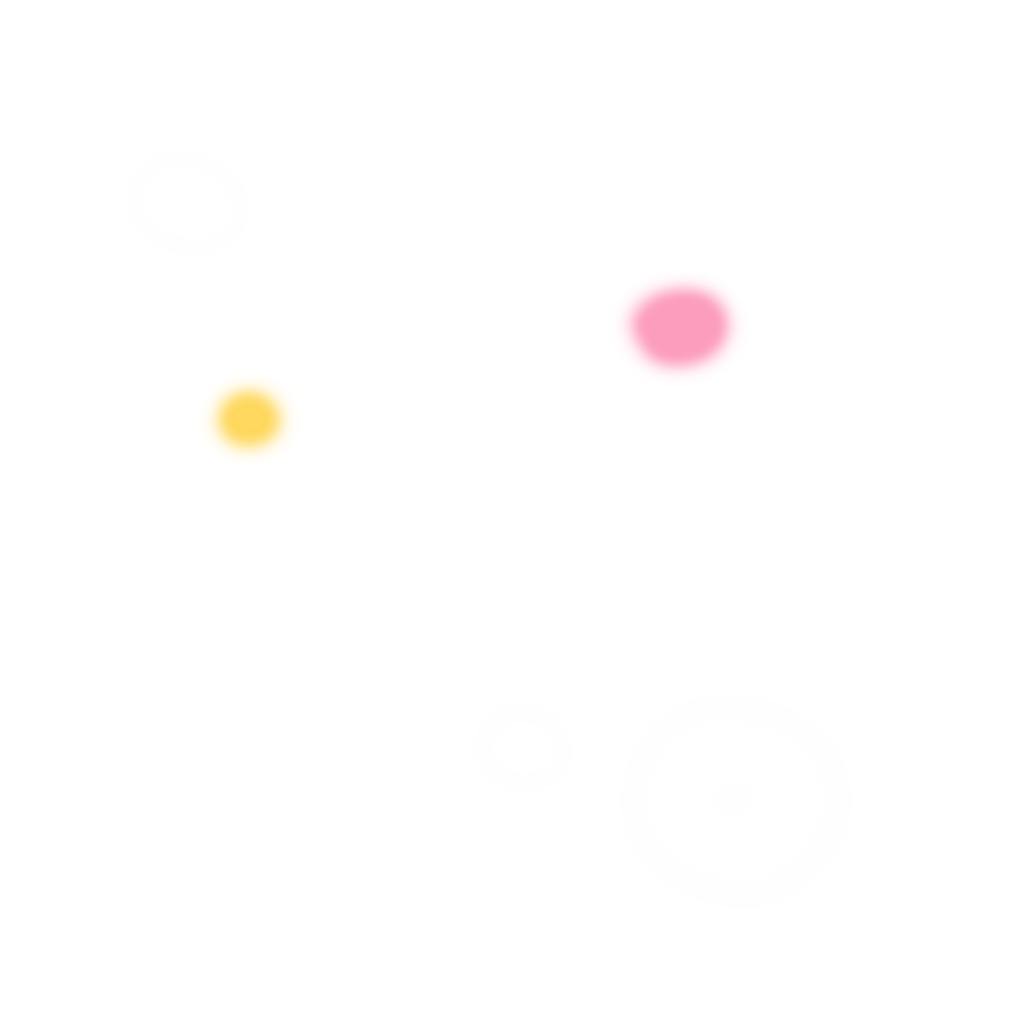
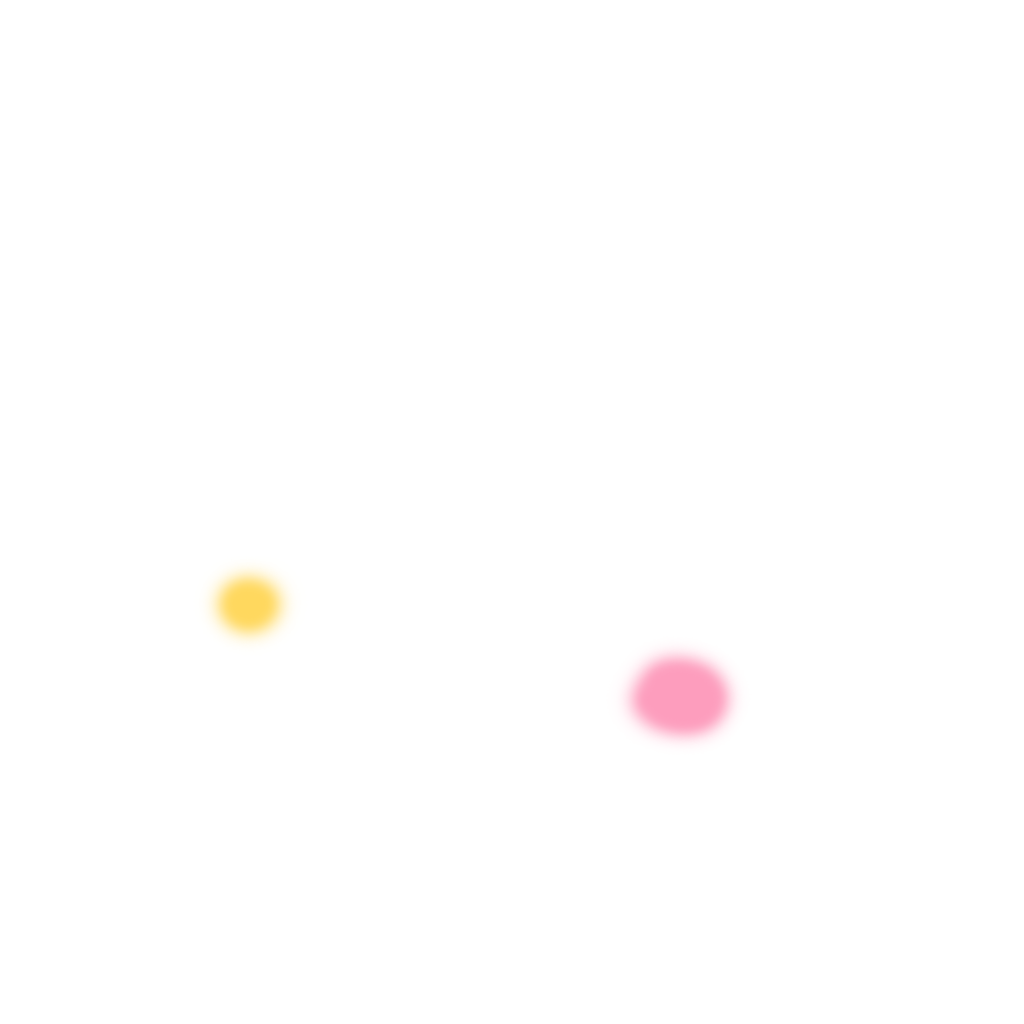
Camera 이동 회전
TODO : 텍스쳐 투명 매핑

diff --git a/OpenGLProject/OpenGLProject/OpenGLProjectView.cpp b/OpenGLProject/OpenGLProject/OpenGLProjectView.cpp
@@ -37,7 +37,6 @@ BEGIN_MESSAGE_MAP(COpenGLProjectView, CView)
 	ON_COMMAND(ID_LIGHT_SPOTLIGHT, &COpenGLProjectView::OnLightSpotlight)
 	ON_WM_RBUTTONDOWN()
 	ON_WM_KEYDOWN()
-	ON_WM_KEYUP()
 END_MESSAGE_MAP()
 
 bool COpenGLProjectView::SetDevicePixelFormat(HDC hdc) {
@@ -189,7 +188,6 @@ int COpenGLProjectView::OnCreate(LPCREATESTRUCT lpCreateStruct)
 	}
 
 	initGL();
-	deltaTime = clock();
 
 	return 0;
 }
@@ -210,6 +208,8 @@ void COpenGLProjectView::OnDestroy()
 void COpenGLProjectView::initGL()
 {
 	TRACE0("initGL 시작\n");
+	deltaTime = clock();
+	Controller::Initialize();
 
 	// GLEW를 사용하기 전에 먼저 초기화합니다
 	GLenum err = glewInit();
@@ -262,6 +262,8 @@ void COpenGLProjectView::ReSizeGLScene(GLsizei width, GLsizei height)
 void COpenGLProjectView::DrawGLScene(void)
 {
 	deltaTime = clock() - deltaTime;
+	deltaTime = clock();
+	Controller::Clock();
 
 	// claer screen and depth buffer
 	glClear(GL_COLOR_BUFFER_BIT | GL_DEPTH_BUFFER_BIT);
@@ -330,26 +332,14 @@ void COpenGLProjectView::OnLButtonUp(UINT nFlags, CPoint point)
 	CView::OnLButtonUp(nFlags, point);
 }
 
-void COpenGLProjectView::OnRButtonDown(UINT nFlags, CPoint point)
-{
-	Controller::setRClick(TRUE);
-	Controller::setpreClickPoint(point);
-
-	CView::OnRButtonDown(nFlags, point);
-}
-void COpenGLProjectView::OnRButtonUp(UINT /* nFlags */, CPoint point)
-{
-	Controller::setRClick(FALSE);
-
+void COpenGLProjectView::OnRButtonDown(UINT nFlags, CPoint point) { Controller::OnRButtonDown(nFlags, point); }
+void COpenGLProjectView::OnRButtonUp(UINT nFlags, CPoint point) {
+	Controller::OnRButtonUp(nFlags, point);
 	// 우클릭 완료시 벗어나려면 주석을 지워야한다
 	// ClientToScreen(&point);
 	// OnContextMenu(this, point);
 }
-
-void COpenGLProjectView::OnMouseMove(UINT nFlags, CPoint point)
-{
-	CView::OnMouseMove(nFlags, point);
-}
+void COpenGLProjectView::OnMouseMove(UINT nFlags, CPoint point) { Controller::OnMouseMove(nFlags, point); }
 
 void COpenGLProjectView::OnTestDirectional()
 {
@@ -369,34 +359,4 @@ void COpenGLProjectView::OnLightSpotlight()
 	mEN_LTG[2] = !mEN_LTG[2];
 }
 
-// 키보드 입력을 처리합니다
-void COpenGLProjectView::OnKeyDown(UINT nChar, UINT nRepCnt, UINT nFlags)
-{
-	switch (nChar) {
-	case 'W':
-		Camera::Move(Direction::FORWARD, (double)deltaTime / CLOCKS_PER_SEC);
-		break;
-	case 'A':
-		Camera::Move(Direction::LEFT, (double)deltaTime / CLOCKS_PER_SEC);
-		break;
-	case 'S':
-		Camera::Move(Direction::BACKWARD, (double)deltaTime / CLOCKS_PER_SEC);
-		break;
-	case 'D':
-		Camera::Move(Direction::RIGHT, (double)deltaTime / CLOCKS_PER_SEC);
-		break;
-	case 'Q':
-		Camera::Move(Direction::UP, (double)deltaTime / CLOCKS_PER_SEC);
-		break;
-	case 'E':
-		Camera::Move(Direction::DOWN, (double)deltaTime / CLOCKS_PER_SEC);
-		break;
-	}
-
-	CView::OnKeyDown(nChar, nRepCnt, nFlags);
-}
-// 키보드 입력을 처리합니다
-void COpenGLProjectView::OnKeyUp(UINT nChar, UINT nRepCnt, UINT nFlags)
-{
-	CView::OnKeyUp(nChar, nRepCnt, nFlags);
-}
+void COpenGLProjectView::OnKeyDown(UINT nChar, UINT nRepCnt, UINT nFlags) { Controller::OnKeyDown(nChar, nRepCnt, nFlags); }

diff --git a/OpenGLProject/OpenGLProject/OpenGLProjectView.h b/OpenGLProject/OpenGLProject/OpenGLProjectView.h
@@ -74,7 +74,6 @@ public:
 	afx_msg void OnLightSpotlight();
 	afx_msg void OnRButtonDown(UINT nFlags, CPoint point);
 	afx_msg void OnKeyDown(UINT nChar, UINT nRepCnt, UINT nFlags);
-	afx_msg void OnKeyUp(UINT nChar, UINT nRepCnt, UINT nFlags);
 };
 
 #endif
